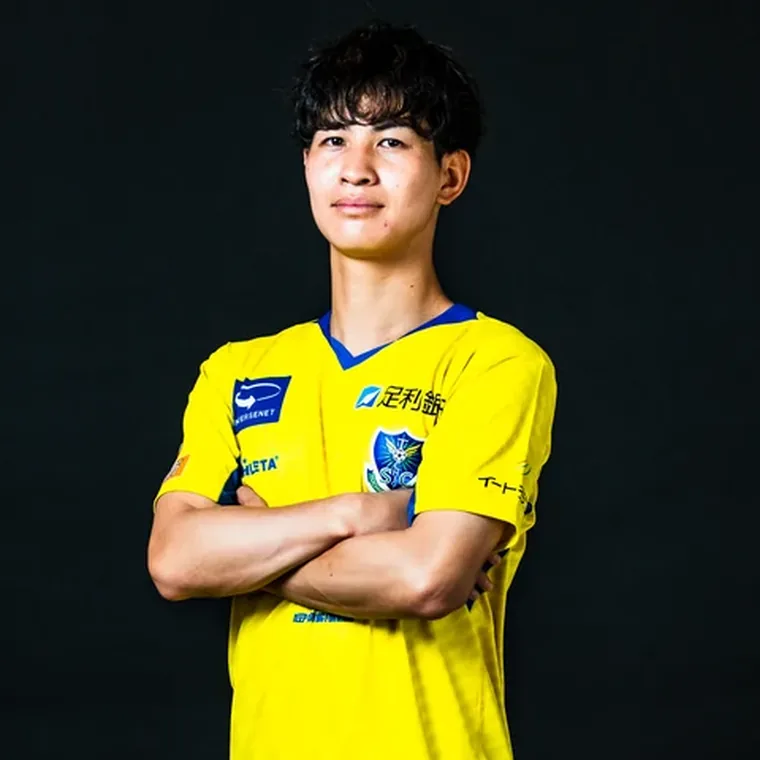
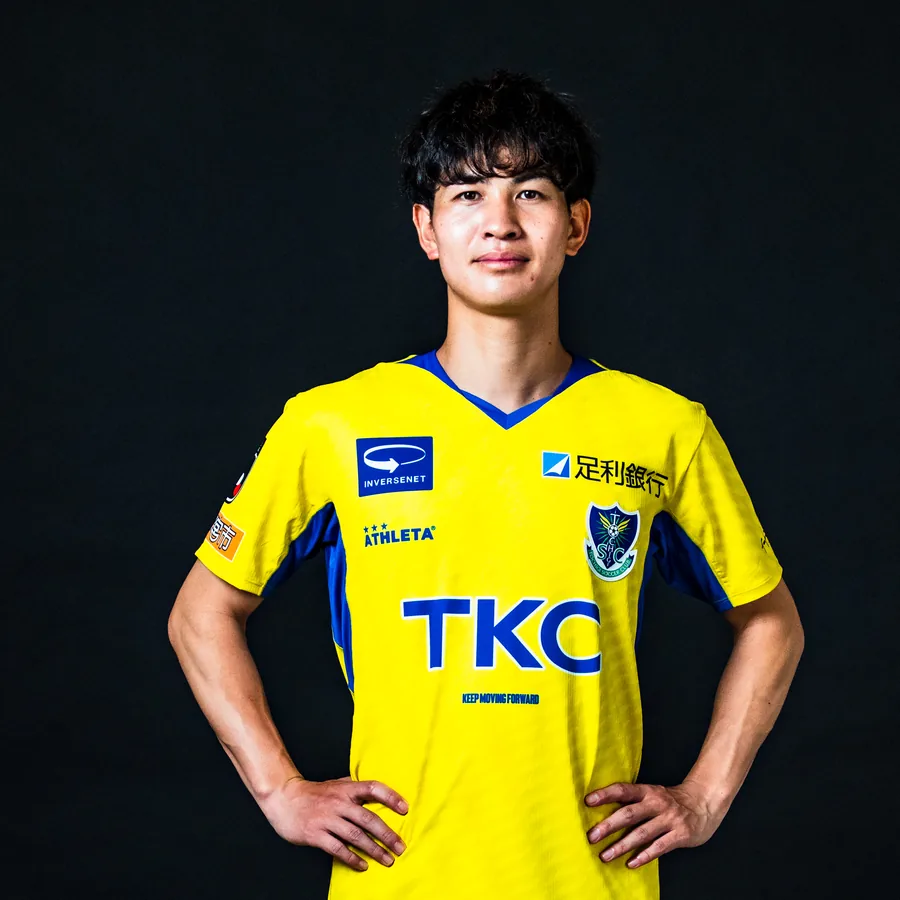
オーセンティックの写真を差し替え・グルメの断り書きを変更・オンラインストアへの導線を追加
- オーセンティックユニフォームを担当者提供の 0017.jpg（3333x5000）から作り直した。
  腰から上の正方形に切り出している。原本は 20_グッズ/20_素材/商品写真_20260804_担当者提供/
- グルメの断り書き →「今節のメニューを一部ご紹介します」
- オフィシャルオンラインストアへの導線をグッズ2ページに追加。
  置き場所はラインナップの末尾（会場図の手前）。先頭に置くと、当日の売店を見る前に外へ送ってしまうため。
  カードではなくネイビーの帯にして、商品の1つに見えないようにした
- URL・文言は JSON の onlineStore が持つ。無ければ何も出さない

Changed region(s): [[0.1816, 0.0908, 0.9079, 1.0]]

diff --git a/gourmet-goods-26-27/goods.html b/gourmet-goods-26-27/goods.html
@@ -273,6 +273,16 @@ footer .em{width:30px; height:30px; margin:0 auto 6px;
      読み飛ばせる細さにしつつ、行間は本文なみに取って読めるようにする。 */
   .ctx.note{font-weight:500; line-height:1.65; padding-top:6px;}
 
+  /* オフィシャルオンラインストアへの導線。紙の幅いっぱいのネイビー帯にする。
+     カードの体裁にすると商品の1つに見えてしまうため、あえて別の形にした。
+     置き場所はラインナップの末尾。先頭に置くと、当日の売店を見る前に外へ送ってしまう。 */
+  .store{display:flex; align-items:center; gap:12px; margin-top:26px; padding:15px 20px;
+         background:var(--navy); color:#fff; text-decoration:none;}
+  .store .st-t{display:block; font-size:15px; font-weight:800; line-height:1.35;}
+  .store .st-n{display:block; font-size:12px; font-weight:600; color:#9db4cc; margin-top:3px;}
+  .store .st-a{margin-left:auto; flex:none; color:var(--yellow); font-size:22px; font-weight:700; line-height:1;}
+  .store:active{opacity:.75;}
+
   /* 追従ヘッダー・切り替えセレクター・ページ内ナビは共通トンマナ層にある */
 
   /* 会場図。番号ピンは重ねない（図に「グッズ売場」が入っているため） */
@@ -401,6 +411,8 @@ footer .em{width:30px; height:30px; margin:0 auto 6px;
   <p class="ctx note">グッズ売店では、ここで紹介している商品のほかにも多数取りそろえています。</p>
   <div id="list"></div>
 
+  <a class="store" id="storeLink" target="_blank" rel="noopener"></a>
+
   <div class="head" id="venueSec">
     <span class="hicon"><svg viewBox="0 0 24 24"><path d="M9 4L3 6v14l6-2 6 2 6-2V4l-6 2-6-2z"/><path d="M9 4v14M15 6v14"/></svg></span>
     <span class="disp">MAP</span>
@@ -428,7 +440,7 @@ footer .em{width:30px; height:30px; margin:0 auto 6px;
 </a>
 
 <script>
-const DATA = {"_readme":["グッズ詳細ページの唯一の正データ。HTMLを手で書き換えないこと。","出典＝栃木SC公式ニュース『【8/9金沢戦】グッズ情報』 https://www.tochigisc.jp/news/1857","","images の考え方（重要）:","  images[0] が必ず一覧カードのサムネイルになる。","  role は『その写真が何を伝えるか』。枚数ではなく役割で扱う。","    main   … 商品そのもの","    lineup … 色やサイズの展開が一覧で分かる（どれを選ぶかが決まる）","    detail … 質感・仕様の寄り（モノの良さが伝わる）","    use    … 使えることの証明（当日どう役に立つかが分かる）","  use の note だけはカードに文字でも出す。写真を開かなくても効くため。","","オンラインストアへの案内はページに載せない。在庫の調整があり、「売り切れてもオンラインで買える」と読ませてしまうため。このページの目的は当日スタジアムの売店で買ってもらうこと。（参考URL: https://www.rakuten.ne.jp/gold/monmiya/tochigi-sc/）","","区分（カテゴリー）は設けない。毎試合ラインナップが変わるため、区分の割り当てが運用の手間になる。items の並び順がそのまま掲載順。","brand.logo が空のあいだはブランド帯を出さない。トッキースクエアのロゴを 20_素材 に置いてパスを入れると表示される。"],"match":{"date":"2026-08-09","kickoff":"19:00","opponent":"ツエーゲン金沢","venue":"カンセキスタジアムとちぎ","short":"金沢"},"shop":{"name":"場外 グッズ売店","gate":"Aゲート","hours":"16:00〜21:00","note":"ガチャは準備でき次第の販売開始です。"},"payment":{"lead":"キャッシュレスでお会計もスムーズ","short":"お支払いはキャッシュレスのみです。","body":"クレジットカード・スマホ決済・電子マネーがそのまま使えます。現金はご利用いただけません。","note":"現金をお持ちの方は、当日場内の専用ブースでプリペイドカードをご用意しています。","guideUrl":"#","gachaNote":"ガチャのみキャッシュレス対象外です。現金をご用意ください。"},"items":[{"id":"cooltowel","name":"選手名クールタオル","price":2915,"hero":true,"allPlayers":true,"desc":"推し選手と一緒に夏のスタジアムを楽しもう！首に掛けやすいサイズで、暑い日の観戦やイベントなど幅広いシーンで活躍します。","spec":{"size":"幅960×高さ300mm"},"images":[{"src":"assets/img/goods/cooltowel.webp","role":"main"}]},{"id":"penlight","name":"2026/27ペンライト","price":2420,"hero":true,"desc":"14色に切り替え可能なLEDライトで、スタジアムを栃木SCカラーに染め、選手たちへ熱い声援を届けましょう。","spec":{"size":"約H250×Φ11mm","note":"単4形電池×3本使用（テスト用電池付属）"},"images":[{"src":"assets/img/goods/penlight.webp","role":"main"}]},{"id":"armcover","name":"アームカバー","price":2420,"hero":true,"desc":"接触冷感素材を使用した、暑い季節にぴったりのアームカバー。UPF50+で紫外線から腕をしっかりガードします。","spec":{"color":"ホワイト／ブラック","size":"長さ43cm・腕側周り29cm・手首側周り18cm","material":"ポリエステル、ポリウレタン（接触冷感・UPF50+）"},"images":[{"src":"assets/img/goods/armcover.webp","role":"main"}]},{"id":"coolerbag","name":"保冷バッグ","price":4400,"hero":true,"desc":"観戦はもちろん、毎日のお買い物やレジャーにも活躍する保冷バッグ。普段使いしやすいカジュアルなデザインです。","spec":{"size":"幅240×高さ240×奥行150mm","material":"厚手トロマット、ポリエステル（裏地アルミ）"},"images":[{"src":"assets/img/goods/coolerbag.webp","role":"main"},{"src":"assets/img/goods/coolerbag_use.webp","role":"use","note":"500mlペットボトルが6本入ります"}]},{"id":"towelmuffler","name":"タオルマフラー","price":1925,"desc":"応援の定番アイテム。暑い時期には何本あっても助かります。","spec":{"size":"高さ200×幅1,100mm","material":"綿100%"},"images":[{"src":"assets/img/goods/towelmuffler.webp","role":"main"}]},{"id":"uniform_replica","name":"レプリカユニフォーム","price":17600,"desc":"幾重にも重なる「T」のラインで、挑戦を積み重ねながら前進してきた軌跡を表現。その先にはJ2昇格へ向かう力強い上昇の矢印が浮かび上がるデザイン。","images":[{"src":"assets/img/goods/uniform_replica.webp","role":"main"}]},{"id":"uniform_authentic","name":"オーセンティックユニフォーム","price":20350,"desc":"選手が実際に着用するモデルと同じ仕様。デザインはレプリカと共通です。","images":[{"src":"assets/img/goods/uniform_authentic.webp","role":"main"}]},{"id":"tee_raglan","name":"ラグランTシャツ","price":4290,"desc":"カレッジ風デザインを取り入れた、普段使いしやすい一着。試合観戦はもちろん、デイリーユースにもおすすめです。","spec":{"size":"M／L／XL","material":"綿100%"},"images":[{"src":"assets/img/goods/tee_raglan.webp","role":"main"}]},{"id":"shirt_linerib","name":"ラインリブシャツ","price":3520,"desc":"「SC」をスタイリッシュなロゴ風にデザインしたプリントが印象的なラインリブシャツ。襟元と袖口のラインリブがアクセントとなり、スポーティーさとカジュアルさを兼ね備えた一着です。試合観戦はもちろん、普段使いにもおすすめです。","spec":{"material":"ポリエステル100%","size":"M／L／XL"},"images":[{"src":"assets/img/goods/shirt_linerib.webp","role":"main"}]},{"id":"cap_newhattan","name":"NEWHATTANキャップ","price":3410,"desc":"人気ブランド「NEWHATTAN」の定番キャップに栃木SCデザインをプラス。観戦から普段のコーディネートまで幅広く活躍します。","spec":{"color":"カーキ／ネイビー／ブルーグレー"},"images":[{"src":"assets/img/goods/cap_newhattan.webp","role":"lineup","note":"3色展開"},{"src":"assets/img/goods/cap_newhattan_detail.webp","role":"detail"}]},{"id":"cap_flatvisor","name":"フラットバイザーキャップ","price":6600,"desc":"フラットバイザーのシルエットが魅力。カジュアルなスタイルに合わせやすく、日常使いにもおすすめです。","spec":{"color":"ブラック／ダークネイビー／スプルース"},"images":[{"src":"assets/img/goods/cap_flatvisor.webp","role":"lineup","note":"3色展開"},{"src":"assets/img/goods/cap_flatvisor_detail.webp","role":"detail"}]},{"id":"acrylic_keyholder","name":"アクリルキーホルダー","price":1210,"allPlayers":true,"desc":"クールな宣材写真を使用し、アンティーク調の額縁風デザインで高級感のある仕上がりに。お気に入りの選手をいつでも身近に持ち歩けます。","spec":{"size":"幅66×高さ68mm"},"images":[{"src":"assets/img/goods/acrylic_keyholder.webp","role":"main"}]},{"id":"gacha_name","name":"おなまえアクリルキーホルダー","price":400,"allPlayers":true,"gacha":true,"desc":"全選手展開で、選手名をデザインしたアクリルキーホルダー。推し選手の名前をアピールしたり、コレクションとしても楽しめるガチャ限定アイテムです。","images":[{"src":"assets/img/goods/gacha_name.webp","role":"main"}]},{"id":"gacha_omamori","name":"お守りアクリルキーホルダー","price":400,"allPlayers":true,"gacha":true,"desc":"勝利への願いを込めた、お守り風デザインのアクリルキーホルダーが新登場！全選手展開なので、お気に入りの選手を集めたり、応援のお供としてもぴったりのガチャ限定アイテムです。","images":[{"src":"assets/img/goods/gacha_omamori.webp","role":"main"}]},{"id":"yearbook","name":"2026/27イヤーブック","price":1650,"desc":"トップチームの全選手・スタッフをはじめ、アカデミーやチアーズまで、栃木SCファミリーを網羅した一冊。全48ページ・フルカラー。","spec":{"size":"A4サイズ"},"images":[{"src":"assets/img/goods/yearbook.webp","role":"main"}]},{"id":"calendar","name":"2026/27卓上カレンダー","price":2530,"desc":"試合スケジュールと選手の誕生日を掲載。デスクやお部屋に飾れば、毎日栃木SCを身近に感じながらシーズンを楽しめます。2026年8月〜2027年7月対応。","spec":{"size":"幅297×高さ105mm"},"images":[{"src":"assets/img/goods/calendar.webp","role":"main"}]},{"id":"clearseal","name":"ぷっくりクリアシール","price":715,"desc":"トッキーやエンブレムなどをデザインした、トレンドのぷっくりクリアシール。スマホやノート、パソコンを栃木SC仕様にデコレーションできます。","spec":{"size":"95×200mm"},"images":[{"src":"assets/img/goods/clearseal.webp","role":"main"}]}],"_todo":["お守りアクリルキーホルダーは公式サイトのスクリーンショット4種を2×2に合成したもの。撮り下ろしが来たら差し替える。","オーセンティックユニフォームは専用写真が無いため、選手紹介ページの黒背景写真（五十嵐太陽）を上半身に切って使用。"],"venueMap":{"img":"assets/img/venue_map_b.webp","alt":"カンセキスタジアムとちぎ 会場案内図（グッズ売店・総合案内所・場外グルメエリアの位置）"},"_venueMapA":{"img":"assets/img/venue_map_0803.webp","alt":"カンセキスタジアムとちぎ 会場案内図（グッズ売場・グルメ・総合案内所の位置）"},"heroImages":[{"src":"assets/img/goods_hero1.webp","alt":"栃木SC スタジアムグッズ"},{"src":"assets/img/goods_hero2.webp","alt":"2026/27 レプリカユニフォーム"},{"src":"assets/img/goods_hero3.webp","alt":"Tochigi SC ロゴのTシャツ"},{"src":"assets/img/goods_hero4.webp","alt":"トートバッグを持って歩く様子"},{"src":"assets/img/goods_hero5.webp","alt":"フラットバイザーキャップ"}]};
+const DATA = {"_readme":["グッズ詳細ページの唯一の正データ。HTMLを手で書き換えないこと。","出典＝栃木SC公式ニュース『【8/9金沢戦】グッズ情報』 https://www.tochigisc.jp/news/1857","","images の考え方（重要）:","  images[0] が必ず一覧カードのサムネイルになる。","  role は『その写真が何を伝えるか』。枚数ではなく役割で扱う。","    main   … 商品そのもの","    lineup … 色やサイズの展開が一覧で分かる（どれを選ぶかが決まる）","    detail … 質感・仕様の寄り（モノの良さが伝わる）","    use    … 使えることの証明（当日どう役に立つかが分かる）","  use の note だけはカードに文字でも出す。写真を開かなくても効くため。","","オンラインストアへの案内はページに載せない。在庫の調整があり、「売り切れてもオンラインで買える」と読ませてしまうため。このページの目的は当日スタジアムの売店で買ってもらうこと。（参考URL: https://www.rakuten.ne.jp/gold/monmiya/tochigi-sc/）","","区分（カテゴリー）は設けない。毎試合ラインナップが変わるため、区分の割り当てが運用の手間になる。items の並び順がそのまま掲載順。","brand.logo が空のあいだはブランド帯を出さない。トッキースクエアのロゴを 20_素材 に置いてパスを入れると表示される。"],"match":{"date":"2026-08-09","kickoff":"19:00","opponent":"ツエーゲン金沢","venue":"カンセキスタジアムとちぎ","short":"金沢"},"shop":{"name":"場外 グッズ売店","gate":"Aゲート","hours":"16:00〜21:00","note":"ガチャは準備でき次第の販売開始です。"},"payment":{"lead":"キャッシュレスでお会計もスムーズ","short":"お支払いはキャッシュレスのみです。","body":"クレジットカード・スマホ決済・電子マネーがそのまま使えます。現金はご利用いただけません。","note":"現金をお持ちの方は、当日場内の専用ブースでプリペイドカードをご用意しています。","guideUrl":"#","gachaNote":"ガチャのみキャッシュレス対象外です。現金をご用意ください。"},"items":[{"id":"cooltowel","name":"選手名クールタオル","price":2915,"hero":true,"allPlayers":true,"desc":"推し選手と一緒に夏のスタジアムを楽しもう！首に掛けやすいサイズで、暑い日の観戦やイベントなど幅広いシーンで活躍します。","spec":{"size":"幅960×高さ300mm"},"images":[{"src":"assets/img/goods/cooltowel.webp","role":"main"}]},{"id":"penlight","name":"2026/27ペンライト","price":2420,"hero":true,"desc":"14色に切り替え可能なLEDライトで、スタジアムを栃木SCカラーに染め、選手たちへ熱い声援を届けましょう。","spec":{"size":"約H250×Φ11mm","note":"単4形電池×3本使用（テスト用電池付属）"},"images":[{"src":"assets/img/goods/penlight.webp","role":"main"}]},{"id":"armcover","name":"アームカバー","price":2420,"hero":true,"desc":"接触冷感素材を使用した、暑い季節にぴったりのアームカバー。UPF50+で紫外線から腕をしっかりガードします。","spec":{"color":"ホワイト／ブラック","size":"長さ43cm・腕側周り29cm・手首側周り18cm","material":"ポリエステル、ポリウレタン（接触冷感・UPF50+）"},"images":[{"src":"assets/img/goods/armcover.webp","role":"main"}]},{"id":"coolerbag","name":"保冷バッグ","price":4400,"hero":true,"desc":"観戦はもちろん、毎日のお買い物やレジャーにも活躍する保冷バッグ。普段使いしやすいカジュアルなデザインです。","spec":{"size":"幅240×高さ240×奥行150mm","material":"厚手トロマット、ポリエステル（裏地アルミ）"},"images":[{"src":"assets/img/goods/coolerbag.webp","role":"main"},{"src":"assets/img/goods/coolerbag_use.webp","role":"use","note":"500mlペットボトルが6本入ります"}]},{"id":"towelmuffler","name":"タオルマフラー","price":1925,"desc":"応援の定番アイテム。暑い時期には何本あっても助かります。","spec":{"size":"高さ200×幅1,100mm","material":"綿100%"},"images":[{"src":"assets/img/goods/towelmuffler.webp","role":"main"}]},{"id":"uniform_replica","name":"レプリカユニフォーム","price":17600,"desc":"幾重にも重なる「T」のラインで、挑戦を積み重ねながら前進してきた軌跡を表現。その先にはJ2昇格へ向かう力強い上昇の矢印が浮かび上がるデザイン。","images":[{"src":"assets/img/goods/uniform_replica.webp","role":"main"}]},{"id":"uniform_authentic","name":"オーセンティックユニフォーム","price":20350,"desc":"選手が実際に着用するモデルと同じ仕様。デザインはレプリカと共通です。","images":[{"src":"assets/img/goods/uniform_authentic.webp","role":"main"}]},{"id":"tee_raglan","name":"ラグランTシャツ","price":4290,"desc":"カレッジ風デザインを取り入れた、普段使いしやすい一着。試合観戦はもちろん、デイリーユースにもおすすめです。","spec":{"size":"M／L／XL","material":"綿100%"},"images":[{"src":"assets/img/goods/tee_raglan.webp","role":"main"}]},{"id":"shirt_linerib","name":"ラインリブシャツ","price":3520,"desc":"「SC」をスタイリッシュなロゴ風にデザインしたプリントが印象的なラインリブシャツ。襟元と袖口のラインリブがアクセントとなり、スポーティーさとカジュアルさを兼ね備えた一着です。試合観戦はもちろん、普段使いにもおすすめです。","spec":{"material":"ポリエステル100%","size":"M／L／XL"},"images":[{"src":"assets/img/goods/shirt_linerib.webp","role":"main"}]},{"id":"cap_newhattan","name":"NEWHATTANキャップ","price":3410,"desc":"人気ブランド「NEWHATTAN」の定番キャップに栃木SCデザインをプラス。観戦から普段のコーディネートまで幅広く活躍します。","spec":{"color":"カーキ／ネイビー／ブルーグレー"},"images":[{"src":"assets/img/goods/cap_newhattan.webp","role":"lineup","note":"3色展開"},{"src":"assets/img/goods/cap_newhattan_detail.webp","role":"detail"}]},{"id":"cap_flatvisor","name":"フラットバイザーキャップ","price":6600,"desc":"フラットバイザーのシルエットが魅力。カジュアルなスタイルに合わせやすく、日常使いにもおすすめです。","spec":{"color":"ブラック／ダークネイビー／スプルース"},"images":[{"src":"assets/img/goods/cap_flatvisor.webp","role":"lineup","note":"3色展開"},{"src":"assets/img/goods/cap_flatvisor_detail.webp","role":"detail"}]},{"id":"acrylic_keyholder","name":"アクリルキーホルダー","price":1210,"allPlayers":true,"desc":"クールな宣材写真を使用し、アンティーク調の額縁風デザインで高級感のある仕上がりに。お気に入りの選手をいつでも身近に持ち歩けます。","spec":{"size":"幅66×高さ68mm"},"images":[{"src":"assets/img/goods/acrylic_keyholder.webp","role":"main"}]},{"id":"gacha_name","name":"おなまえアクリルキーホルダー","price":400,"allPlayers":true,"gacha":true,"desc":"全選手展開で、選手名をデザインしたアクリルキーホルダー。推し選手の名前をアピールしたり、コレクションとしても楽しめるガチャ限定アイテムです。","images":[{"src":"assets/img/goods/gacha_name.webp","role":"main"}]},{"id":"gacha_omamori","name":"お守りアクリルキーホルダー","price":400,"allPlayers":true,"gacha":true,"desc":"勝利への願いを込めた、お守り風デザインのアクリルキーホルダーが新登場！全選手展開なので、お気に入りの選手を集めたり、応援のお供としてもぴったりのガチャ限定アイテムです。","images":[{"src":"assets/img/goods/gacha_omamori.webp","role":"main"}]},{"id":"yearbook","name":"2026/27イヤーブック","price":1650,"desc":"トップチームの全選手・スタッフをはじめ、アカデミーやチアーズまで、栃木SCファミリーを網羅した一冊。全48ページ・フルカラー。","spec":{"size":"A4サイズ"},"images":[{"src":"assets/img/goods/yearbook.webp","role":"main"}]},{"id":"calendar","name":"2026/27卓上カレンダー","price":2530,"desc":"試合スケジュールと選手の誕生日を掲載。デスクやお部屋に飾れば、毎日栃木SCを身近に感じながらシーズンを楽しめます。2026年8月〜2027年7月対応。","spec":{"size":"幅297×高さ105mm"},"images":[{"src":"assets/img/goods/calendar.webp","role":"main"}]},{"id":"clearseal","name":"ぷっくりクリアシール","price":715,"desc":"トッキーやエンブレムなどをデザインした、トレンドのぷっくりクリアシール。スマホやノート、パソコンを栃木SC仕様にデコレーションできます。","spec":{"size":"95×200mm"},"images":[{"src":"assets/img/goods/clearseal.webp","role":"main"}]}],"_todo":["お守りアクリルキーホルダーは公式サイトのスクリーンショット4種を2×2に合成したもの。撮り下ろしが来たら差し替える。","オーセンティックユニフォームは専用写真が無いため、選手紹介ページの黒背景写真（五十嵐太陽）を上半身に切って使用。"],"venueMap":{"img":"assets/img/venue_map_b.webp","alt":"カンセキスタジアムとちぎ 会場案内図（グッズ売店・総合案内所・場外グルメエリアの位置）"},"_venueMapA":{"img":"assets/img/venue_map_0803.webp","alt":"カンセキスタジアムとちぎ 会場案内図（グッズ売場・グルメ・総合案内所の位置）"},"heroImages":[{"src":"assets/img/goods_hero1.webp","alt":"栃木SC スタジアムグッズ"},{"src":"assets/img/goods_hero2.webp","alt":"2026/27 レプリカユニフォーム"},{"src":"assets/img/goods_hero3.webp","alt":"Tochigi SC ロゴのTシャツ"},{"src":"assets/img/goods_hero4.webp","alt":"トートバッグを持って歩く様子"},{"src":"assets/img/goods_hero5.webp","alt":"フラットバイザーキャップ"}],"onlineStore":{"url":"https://www.rakuten.ne.jp/gold/monmiya/tochigi-sc/","label":"オフィシャルオンラインストア","note":"当日の売店とは品揃えが異なります"}};
 
 
 // どの試合のページかを英字見出しの横に添える。
@@ -673,6 +685,18 @@ function cardHtml(it, alwaysOpen){
     var i=Math.round(t.scrollLeft / t.clientWidth);
     [].forEach.call(dots.children, function(d,n){ d.classList.toggle('on', n===i); });
   }, true);
+})();
+
+// オフィシャルオンラインストア。URL・文言は JSON の onlineStore が持つので、
+// 変わってもデータだけ直せばよい。無ければ何も出さない。
+(function(){
+  var s=DATA.onlineStore, el=document.getElementById('storeLink');
+  if(!el) return;
+  if(!s || !s.url){ el.remove(); return; }
+  el.href=s.url;
+  el.innerHTML='<span><span class="st-t">'+esc(s.label||'オフィシャルオンラインストア')+'</span>'+
+               (s.note? '<span class="st-n">'+esc(s.note)+'</span>':'')+'</span>'+
+               '<span class="st-a" aria-hidden="true">›</span>';
 })();
 
 // 上へ戻る

diff --git a/gourmet-goods-26-27/goods_b.html b/gourmet-goods-26-27/goods_b.html
@@ -276,6 +276,16 @@ footer .em{width:30px; height:30px; margin:0 auto 6px;
      読み飛ばせる細さにしつつ、行間は本文なみに取って読めるようにする。 */
   .ctx.note{font-weight:500; line-height:1.65; padding-top:6px;}
 
+  /* オフィシャルオンラインストアへの導線。紙の幅いっぱいのネイビー帯にする。
+     カードの体裁にすると商品の1つに見えてしまうため、あえて別の形にした。
+     置き場所はラインナップの末尾。先頭に置くと、当日の売店を見る前に外へ送ってしまう。 */
+  .store{display:flex; align-items:center; gap:12px; margin-top:26px; padding:15px 20px;
+         background:var(--navy); color:#fff; text-decoration:none;}
+  .store .st-t{display:block; font-size:15px; font-weight:800; line-height:1.35;}
+  .store .st-n{display:block; font-size:12px; font-weight:600; color:#9db4cc; margin-top:3px;}
+  .store .st-a{margin-left:auto; flex:none; color:var(--yellow); font-size:22px; font-weight:700; line-height:1;}
+  .store:active{opacity:.75;}
+
   /* 追従ヘッダー・切り替えセレクター・ページ内ナビは共通トンマナ層にある */
 
   /* 会場図。番号ピンは重ねない（図に「グッズ売場」が入っているため） */
@@ -475,6 +485,8 @@ footer .em{width:30px; height:30px; margin:0 auto 6px;
   <p class="ctx note">グッズ売店では、ここで紹介している商品のほかにも多数取りそろえています。</p>
   <div id="list"></div>
 
+  <a class="store" id="storeLink" target="_blank" rel="noopener"></a>
+
   <div class="head" id="venueSec">
     <span class="hicon"><svg viewBox="0 0 24 24"><path d="M9 4L3 6v14l6-2 6 2 6-2V4l-6 2-6-2z"/><path d="M9 4v14M15 6v14"/></svg></span>
     <span class="disp">MAP</span>
@@ -519,7 +531,7 @@ footer .em{width:30px; height:30px; margin:0 auto 6px;
 </a>
 
 <script>
-const DATA = {"_readme":["グッズ詳細ページの唯一の正データ。HTMLを手で書き換えないこと。","出典＝栃木SC公式ニュース『【8/9金沢戦】グッズ情報』 https://www.tochigisc.jp/news/1857","","images の考え方（重要）:","  images[0] が必ず一覧カードのサムネイルになる。","  role は『その写真が何を伝えるか』。枚数ではなく役割で扱う。","    main   … 商品そのもの","    lineup … 色やサイズの展開が一覧で分かる（どれを選ぶかが決まる）","    detail … 質感・仕様の寄り（モノの良さが伝わる）","    use    … 使えることの証明（当日どう役に立つかが分かる）","  use の note だけはカードに文字でも出す。写真を開かなくても効くため。","","オンラインストアへの案内はページに載せない。在庫の調整があり、「売り切れてもオンラインで買える」と読ませてしまうため。このページの目的は当日スタジアムの売店で買ってもらうこと。（参考URL: https://www.rakuten.ne.jp/gold/monmiya/tochigi-sc/）","","区分（カテゴリー）は設けない。毎試合ラインナップが変わるため、区分の割り当てが運用の手間になる。items の並び順がそのまま掲載順。","brand.logo が空のあいだはブランド帯を出さない。トッキースクエアのロゴを 20_素材 に置いてパスを入れると表示される。"],"match":{"date":"2026-08-09","kickoff":"19:00","opponent":"ツエーゲン金沢","venue":"カンセキスタジアムとちぎ","short":"金沢"},"shop":{"name":"場外 グッズ売店","gate":"Aゲート","hours":"16:00〜21:00","note":"ガチャは準備でき次第の販売開始です。"},"payment":{"lead":"キャッシュレスでお会計もスムーズ","short":"お支払いはキャッシュレスのみです。","body":"クレジットカード・スマホ決済・電子マネーがそのまま使えます。現金はご利用いただけません。","note":"現金をお持ちの方は、当日場内の専用ブースでプリペイドカードをご用意しています。","guideUrl":"#","gachaNote":"ガチャのみキャッシュレス対象外です。現金をご用意ください。"},"items":[{"id":"cooltowel","name":"選手名クールタオル","price":2915,"hero":true,"allPlayers":true,"desc":"推し選手と一緒に夏のスタジアムを楽しもう！首に掛けやすいサイズで、暑い日の観戦やイベントなど幅広いシーンで活躍します。","spec":{"size":"幅960×高さ300mm"},"images":[{"src":"assets/img/goods/cooltowel.webp","role":"main"}]},{"id":"penlight","name":"2026/27ペンライト","price":2420,"hero":true,"desc":"14色に切り替え可能なLEDライトで、スタジアムを栃木SCカラーに染め、選手たちへ熱い声援を届けましょう。","spec":{"size":"約H250×Φ11mm","note":"単4形電池×3本使用（テスト用電池付属）"},"images":[{"src":"assets/img/goods/penlight.webp","role":"main"}]},{"id":"armcover","name":"アームカバー","price":2420,"hero":true,"desc":"接触冷感素材を使用した、暑い季節にぴったりのアームカバー。UPF50+で紫外線から腕をしっかりガードします。","spec":{"color":"ホワイト／ブラック","size":"長さ43cm・腕側周り29cm・手首側周り18cm","material":"ポリエステル、ポリウレタン（接触冷感・UPF50+）"},"images":[{"src":"assets/img/goods/armcover.webp","role":"main"}]},{"id":"coolerbag","name":"保冷バッグ","price":4400,"hero":true,"desc":"観戦はもちろん、毎日のお買い物やレジャーにも活躍する保冷バッグ。普段使いしやすいカジュアルなデザインです。","spec":{"size":"幅240×高さ240×奥行150mm","material":"厚手トロマット、ポリエステル（裏地アルミ）"},"images":[{"src":"assets/img/goods/coolerbag.webp","role":"main"},{"src":"assets/img/goods/coolerbag_use.webp","role":"use","note":"500mlペットボトルが6本入ります"}]},{"id":"towelmuffler","name":"タオルマフラー","price":1925,"desc":"応援の定番アイテム。暑い時期には何本あっても助かります。","spec":{"size":"高さ200×幅1,100mm","material":"綿100%"},"images":[{"src":"assets/img/goods/towelmuffler.webp","role":"main"}]},{"id":"uniform_replica","name":"レプリカユニフォーム","price":17600,"desc":"幾重にも重なる「T」のラインで、挑戦を積み重ねながら前進してきた軌跡を表現。その先にはJ2昇格へ向かう力強い上昇の矢印が浮かび上がるデザイン。","images":[{"src":"assets/img/goods/uniform_replica.webp","role":"main"}]},{"id":"uniform_authentic","name":"オーセンティックユニフォーム","price":20350,"desc":"選手が実際に着用するモデルと同じ仕様。デザインはレプリカと共通です。","images":[{"src":"assets/img/goods/uniform_authentic.webp","role":"main"}]},{"id":"tee_raglan","name":"ラグランTシャツ","price":4290,"desc":"カレッジ風デザインを取り入れた、普段使いしやすい一着。試合観戦はもちろん、デイリーユースにもおすすめです。","spec":{"size":"M／L／XL","material":"綿100%"},"images":[{"src":"assets/img/goods/tee_raglan.webp","role":"main"}]},{"id":"shirt_linerib","name":"ラインリブシャツ","price":3520,"desc":"「SC」をスタイリッシュなロゴ風にデザインしたプリントが印象的なラインリブシャツ。襟元と袖口のラインリブがアクセントとなり、スポーティーさとカジュアルさを兼ね備えた一着です。試合観戦はもちろん、普段使いにもおすすめです。","spec":{"material":"ポリエステル100%","size":"M／L／XL"},"images":[{"src":"assets/img/goods/shirt_linerib.webp","role":"main"}]},{"id":"cap_newhattan","name":"NEWHATTANキャップ","price":3410,"desc":"人気ブランド「NEWHATTAN」の定番キャップに栃木SCデザインをプラス。観戦から普段のコーディネートまで幅広く活躍します。","spec":{"color":"カーキ／ネイビー／ブルーグレー"},"images":[{"src":"assets/img/goods/cap_newhattan.webp","role":"lineup","note":"3色展開"},{"src":"assets/img/goods/cap_newhattan_detail.webp","role":"detail"}]},{"id":"cap_flatvisor","name":"フラットバイザーキャップ","price":6600,"desc":"フラットバイザーのシルエットが魅力。カジュアルなスタイルに合わせやすく、日常使いにもおすすめです。","spec":{"color":"ブラック／ダークネイビー／スプルース"},"images":[{"src":"assets/img/goods/cap_flatvisor.webp","role":"lineup","note":"3色展開"},{"src":"assets/img/goods/cap_flatvisor_detail.webp","role":"detail"}]},{"id":"acrylic_keyholder","name":"アクリルキーホルダー","price":1210,"allPlayers":true,"desc":"クールな宣材写真を使用し、アンティーク調の額縁風デザインで高級感のある仕上がりに。お気に入りの選手をいつでも身近に持ち歩けます。","spec":{"size":"幅66×高さ68mm"},"images":[{"src":"assets/img/goods/acrylic_keyholder.webp","role":"main"}]},{"id":"gacha_name","name":"おなまえアクリルキーホルダー","price":400,"allPlayers":true,"gacha":true,"desc":"全選手展開で、選手名をデザインしたアクリルキーホルダー。推し選手の名前をアピールしたり、コレクションとしても楽しめるガチャ限定アイテムです。","images":[{"src":"assets/img/goods/gacha_name.webp","role":"main"}]},{"id":"gacha_omamori","name":"お守りアクリルキーホルダー","price":400,"allPlayers":true,"gacha":true,"desc":"勝利への願いを込めた、お守り風デザインのアクリルキーホルダーが新登場！全選手展開なので、お気に入りの選手を集めたり、応援のお供としてもぴったりのガチャ限定アイテムです。","images":[{"src":"assets/img/goods/gacha_omamori.webp","role":"main"}]},{"id":"yearbook","name":"2026/27イヤーブック","price":1650,"desc":"トップチームの全選手・スタッフをはじめ、アカデミーやチアーズまで、栃木SCファミリーを網羅した一冊。全48ページ・フルカラー。","spec":{"size":"A4サイズ"},"images":[{"src":"assets/img/goods/yearbook.webp","role":"main"}]},{"id":"calendar","name":"2026/27卓上カレンダー","price":2530,"desc":"試合スケジュールと選手の誕生日を掲載。デスクやお部屋に飾れば、毎日栃木SCを身近に感じながらシーズンを楽しめます。2026年8月〜2027年7月対応。","spec":{"size":"幅297×高さ105mm"},"images":[{"src":"assets/img/goods/calendar.webp","role":"main"}]},{"id":"clearseal","name":"ぷっくりクリアシール","price":715,"desc":"トッキーやエンブレムなどをデザインした、トレンドのぷっくりクリアシール。スマホやノート、パソコンを栃木SC仕様にデコレーションできます。","spec":{"size":"95×200mm"},"images":[{"src":"assets/img/goods/clearseal.webp","role":"main"}]}],"_todo":["お守りアクリルキーホルダーは公式サイトのスクリーンショット4種を2×2に合成したもの。撮り下ろしが来たら差し替える。","オーセンティックユニフォームは専用写真が無いため、選手紹介ページの黒背景写真（五十嵐太陽）を上半身に切って使用。"],"venueMap":{"img":"assets/img/venue_map_b.webp","alt":"カンセキスタジアムとちぎ 会場案内図（グッズ売店・総合案内所・場外グルメエリアの位置）"},"_venueMapA":{"img":"assets/img/venue_map_0803.webp","alt":"カンセキスタジアムとちぎ 会場案内図（グッズ売場・グルメ・総合案内所の位置）"},"heroImages":[{"src":"assets/img/goods_hero1.webp","alt":"栃木SC スタジアムグッズ"},{"src":"assets/img/goods_hero2.webp","alt":"2026/27 レプリカユニフォーム"},{"src":"assets/img/goods_hero3.webp","alt":"Tochigi SC ロゴのTシャツ"},{"src":"assets/img/goods_hero4.webp","alt":"トートバッグを持って歩く様子"},{"src":"assets/img/goods_hero5.webp","alt":"フラットバイザーキャップ"}]};
+const DATA = {"_readme":["グッズ詳細ページの唯一の正データ。HTMLを手で書き換えないこと。","出典＝栃木SC公式ニュース『【8/9金沢戦】グッズ情報』 https://www.tochigisc.jp/news/1857","","images の考え方（重要）:","  images[0] が必ず一覧カードのサムネイルになる。","  role は『その写真が何を伝えるか』。枚数ではなく役割で扱う。","    main   … 商品そのもの","    lineup … 色やサイズの展開が一覧で分かる（どれを選ぶかが決まる）","    detail … 質感・仕様の寄り（モノの良さが伝わる）","    use    … 使えることの証明（当日どう役に立つかが分かる）","  use の note だけはカードに文字でも出す。写真を開かなくても効くため。","","オンラインストアへの案内はページに載せない。在庫の調整があり、「売り切れてもオンラインで買える」と読ませてしまうため。このページの目的は当日スタジアムの売店で買ってもらうこと。（参考URL: https://www.rakuten.ne.jp/gold/monmiya/tochigi-sc/）","","区分（カテゴリー）は設けない。毎試合ラインナップが変わるため、区分の割り当てが運用の手間になる。items の並び順がそのまま掲載順。","brand.logo が空のあいだはブランド帯を出さない。トッキースクエアのロゴを 20_素材 に置いてパスを入れると表示される。"],"match":{"date":"2026-08-09","kickoff":"19:00","opponent":"ツエーゲン金沢","venue":"カンセキスタジアムとちぎ","short":"金沢"},"shop":{"name":"場外 グッズ売店","gate":"Aゲート","hours":"16:00〜21:00","note":"ガチャは準備でき次第の販売開始です。"},"payment":{"lead":"キャッシュレスでお会計もスムーズ","short":"お支払いはキャッシュレスのみです。","body":"クレジットカード・スマホ決済・電子マネーがそのまま使えます。現金はご利用いただけません。","note":"現金をお持ちの方は、当日場内の専用ブースでプリペイドカードをご用意しています。","guideUrl":"#","gachaNote":"ガチャのみキャッシュレス対象外です。現金をご用意ください。"},"items":[{"id":"cooltowel","name":"選手名クールタオル","price":2915,"hero":true,"allPlayers":true,"desc":"推し選手と一緒に夏のスタジアムを楽しもう！首に掛けやすいサイズで、暑い日の観戦やイベントなど幅広いシーンで活躍します。","spec":{"size":"幅960×高さ300mm"},"images":[{"src":"assets/img/goods/cooltowel.webp","role":"main"}]},{"id":"penlight","name":"2026/27ペンライト","price":2420,"hero":true,"desc":"14色に切り替え可能なLEDライトで、スタジアムを栃木SCカラーに染め、選手たちへ熱い声援を届けましょう。","spec":{"size":"約H250×Φ11mm","note":"単4形電池×3本使用（テスト用電池付属）"},"images":[{"src":"assets/img/goods/penlight.webp","role":"main"}]},{"id":"armcover","name":"アームカバー","price":2420,"hero":true,"desc":"接触冷感素材を使用した、暑い季節にぴったりのアームカバー。UPF50+で紫外線から腕をしっかりガードします。","spec":{"color":"ホワイト／ブラック","size":"長さ43cm・腕側周り29cm・手首側周り18cm","material":"ポリエステル、ポリウレタン（接触冷感・UPF50+）"},"images":[{"src":"assets/img/goods/armcover.webp","role":"main"}]},{"id":"coolerbag","name":"保冷バッグ","price":4400,"hero":true,"desc":"観戦はもちろん、毎日のお買い物やレジャーにも活躍する保冷バッグ。普段使いしやすいカジュアルなデザインです。","spec":{"size":"幅240×高さ240×奥行150mm","material":"厚手トロマット、ポリエステル（裏地アルミ）"},"images":[{"src":"assets/img/goods/coolerbag.webp","role":"main"},{"src":"assets/img/goods/coolerbag_use.webp","role":"use","note":"500mlペットボトルが6本入ります"}]},{"id":"towelmuffler","name":"タオルマフラー","price":1925,"desc":"応援の定番アイテム。暑い時期には何本あっても助かります。","spec":{"size":"高さ200×幅1,100mm","material":"綿100%"},"images":[{"src":"assets/img/goods/towelmuffler.webp","role":"main"}]},{"id":"uniform_replica","name":"レプリカユニフォーム","price":17600,"desc":"幾重にも重なる「T」のラインで、挑戦を積み重ねながら前進してきた軌跡を表現。その先にはJ2昇格へ向かう力強い上昇の矢印が浮かび上がるデザイン。","images":[{"src":"assets/img/goods/uniform_replica.webp","role":"main"}]},{"id":"uniform_authentic","name":"オーセンティックユニフォーム","price":20350,"desc":"選手が実際に着用するモデルと同じ仕様。デザインはレプリカと共通です。","images":[{"src":"assets/img/goods/uniform_authentic.webp","role":"main"}]},{"id":"tee_raglan","name":"ラグランTシャツ","price":4290,"desc":"カレッジ風デザインを取り入れた、普段使いしやすい一着。試合観戦はもちろん、デイリーユースにもおすすめです。","spec":{"size":"M／L／XL","material":"綿100%"},"images":[{"src":"assets/img/goods/tee_raglan.webp","role":"main"}]},{"id":"shirt_linerib","name":"ラインリブシャツ","price":3520,"desc":"「SC」をスタイリッシュなロゴ風にデザインしたプリントが印象的なラインリブシャツ。襟元と袖口のラインリブがアクセントとなり、スポーティーさとカジュアルさを兼ね備えた一着です。試合観戦はもちろん、普段使いにもおすすめです。","spec":{"material":"ポリエステル100%","size":"M／L／XL"},"images":[{"src":"assets/img/goods/shirt_linerib.webp","role":"main"}]},{"id":"cap_newhattan","name":"NEWHATTANキャップ","price":3410,"desc":"人気ブランド「NEWHATTAN」の定番キャップに栃木SCデザインをプラス。観戦から普段のコーディネートまで幅広く活躍します。","spec":{"color":"カーキ／ネイビー／ブルーグレー"},"images":[{"src":"assets/img/goods/cap_newhattan.webp","role":"lineup","note":"3色展開"},{"src":"assets/img/goods/cap_newhattan_detail.webp","role":"detail"}]},{"id":"cap_flatvisor","name":"フラットバイザーキャップ","price":6600,"desc":"フラットバイザーのシルエットが魅力。カジュアルなスタイルに合わせやすく、日常使いにもおすすめです。","spec":{"color":"ブラック／ダークネイビー／スプルース"},"images":[{"src":"assets/img/goods/cap_flatvisor.webp","role":"lineup","note":"3色展開"},{"src":"assets/img/goods/cap_flatvisor_detail.webp","role":"detail"}]},{"id":"acrylic_keyholder","name":"アクリルキーホルダー","price":1210,"allPlayers":true,"desc":"クールな宣材写真を使用し、アンティーク調の額縁風デザインで高級感のある仕上がりに。お気に入りの選手をいつでも身近に持ち歩けます。","spec":{"size":"幅66×高さ68mm"},"images":[{"src":"assets/img/goods/acrylic_keyholder.webp","role":"main"}]},{"id":"gacha_name","name":"おなまえアクリルキーホルダー","price":400,"allPlayers":true,"gacha":true,"desc":"全選手展開で、選手名をデザインしたアクリルキーホルダー。推し選手の名前をアピールしたり、コレクションとしても楽しめるガチャ限定アイテムです。","images":[{"src":"assets/img/goods/gacha_name.webp","role":"main"}]},{"id":"gacha_omamori","name":"お守りアクリルキーホルダー","price":400,"allPlayers":true,"gacha":true,"desc":"勝利への願いを込めた、お守り風デザインのアクリルキーホルダーが新登場！全選手展開なので、お気に入りの選手を集めたり、応援のお供としてもぴったりのガチャ限定アイテムです。","images":[{"src":"assets/img/goods/gacha_omamori.webp","role":"main"}]},{"id":"yearbook","name":"2026/27イヤーブック","price":1650,"desc":"トップチームの全選手・スタッフをはじめ、アカデミーやチアーズまで、栃木SCファミリーを網羅した一冊。全48ページ・フルカラー。","spec":{"size":"A4サイズ"},"images":[{"src":"assets/img/goods/yearbook.webp","role":"main"}]},{"id":"calendar","name":"2026/27卓上カレンダー","price":2530,"desc":"試合スケジュールと選手の誕生日を掲載。デスクやお部屋に飾れば、毎日栃木SCを身近に感じながらシーズンを楽しめます。2026年8月〜2027年7月対応。","spec":{"size":"幅297×高さ105mm"},"images":[{"src":"assets/img/goods/calendar.webp","role":"main"}]},{"id":"clearseal","name":"ぷっくりクリアシール","price":715,"desc":"トッキーやエンブレムなどをデザインした、トレンドのぷっくりクリアシール。スマホやノート、パソコンを栃木SC仕様にデコレーションできます。","spec":{"size":"95×200mm"},"images":[{"src":"assets/img/goods/clearseal.webp","role":"main"}]}],"_todo":["お守りアクリルキーホルダーは公式サイトのスクリーンショット4種を2×2に合成したもの。撮り下ろしが来たら差し替える。","オーセンティックユニフォームは専用写真が無いため、選手紹介ページの黒背景写真（五十嵐太陽）を上半身に切って使用。"],"venueMap":{"img":"assets/img/venue_map_b.webp","alt":"カンセキスタジアムとちぎ 会場案内図（グッズ売店・総合案内所・場外グルメエリアの位置）"},"_venueMapA":{"img":"assets/img/venue_map_0803.webp","alt":"カンセキスタジアムとちぎ 会場案内図（グッズ売場・グルメ・総合案内所の位置）"},"heroImages":[{"src":"assets/img/goods_hero1.webp","alt":"栃木SC スタジアムグッズ"},{"src":"assets/img/goods_hero2.webp","alt":"2026/27 レプリカユニフォーム"},{"src":"assets/img/goods_hero3.webp","alt":"Tochigi SC ロゴのTシャツ"},{"src":"assets/img/goods_hero4.webp","alt":"トートバッグを持って歩く様子"},{"src":"assets/img/goods_hero5.webp","alt":"フラットバイザーキャップ"}],"onlineStore":{"url":"https://www.rakuten.ne.jp/gold/monmiya/tochigi-sc/","label":"オフィシャルオンラインストア","note":"当日の売店とは品揃えが異なります"}};
 
 
 document.documentElement.className += ' js';
@@ -894,6 +906,18 @@ function sheetHtml(it){
     var i=Math.round(t.scrollLeft / t.clientWidth);
     [].forEach.call(dots.children, function(d,n){ d.classList.toggle('on', n===i); });
   }, true);
+})();
+
+// オフィシャルオンラインストア。URL・文言は JSON の onlineStore が持つので、
+// 変わってもデータだけ直せばよい。無ければ何も出さない。
+(function(){
+  var s=DATA.onlineStore, el=document.getElementById('storeLink');
+  if(!el) return;
+  if(!s || !s.url){ el.remove(); return; }
+  el.href=s.url;
+  el.innerHTML='<span><span class="st-t">'+esc(s.label||'オフィシャルオンラインストア')+'</span>'+
+               (s.note? '<span class="st-n">'+esc(s.note)+'</span>':'')+'</span>'+
+               '<span class="st-a" aria-hidden="true">›</span>';
 })();
 
 // 上へ戻る

diff --git a/gourmet-goods-26-27/gourmet.html b/gourmet-goods-26-27/gourmet.html
@@ -473,7 +473,7 @@ footer .em{width:30px; height:30px; margin:0 auto 6px;
   </div>
   <!-- 「ALL MENU」だと載っているものが全部だと読まれるので英字を店名に変えたうえで、
        ここにも一行で断る。スマホ幅で1行に収まる字数にしてある -->
-  <p class="ctx note">ほかにもスタジアムならではのメニューがあります。</p>
+  <p class="ctx note">今節のメニューを一部ご紹介します</p>
   <div id="menu"></div>
 
   <div class="area rv" id="areaSec">
